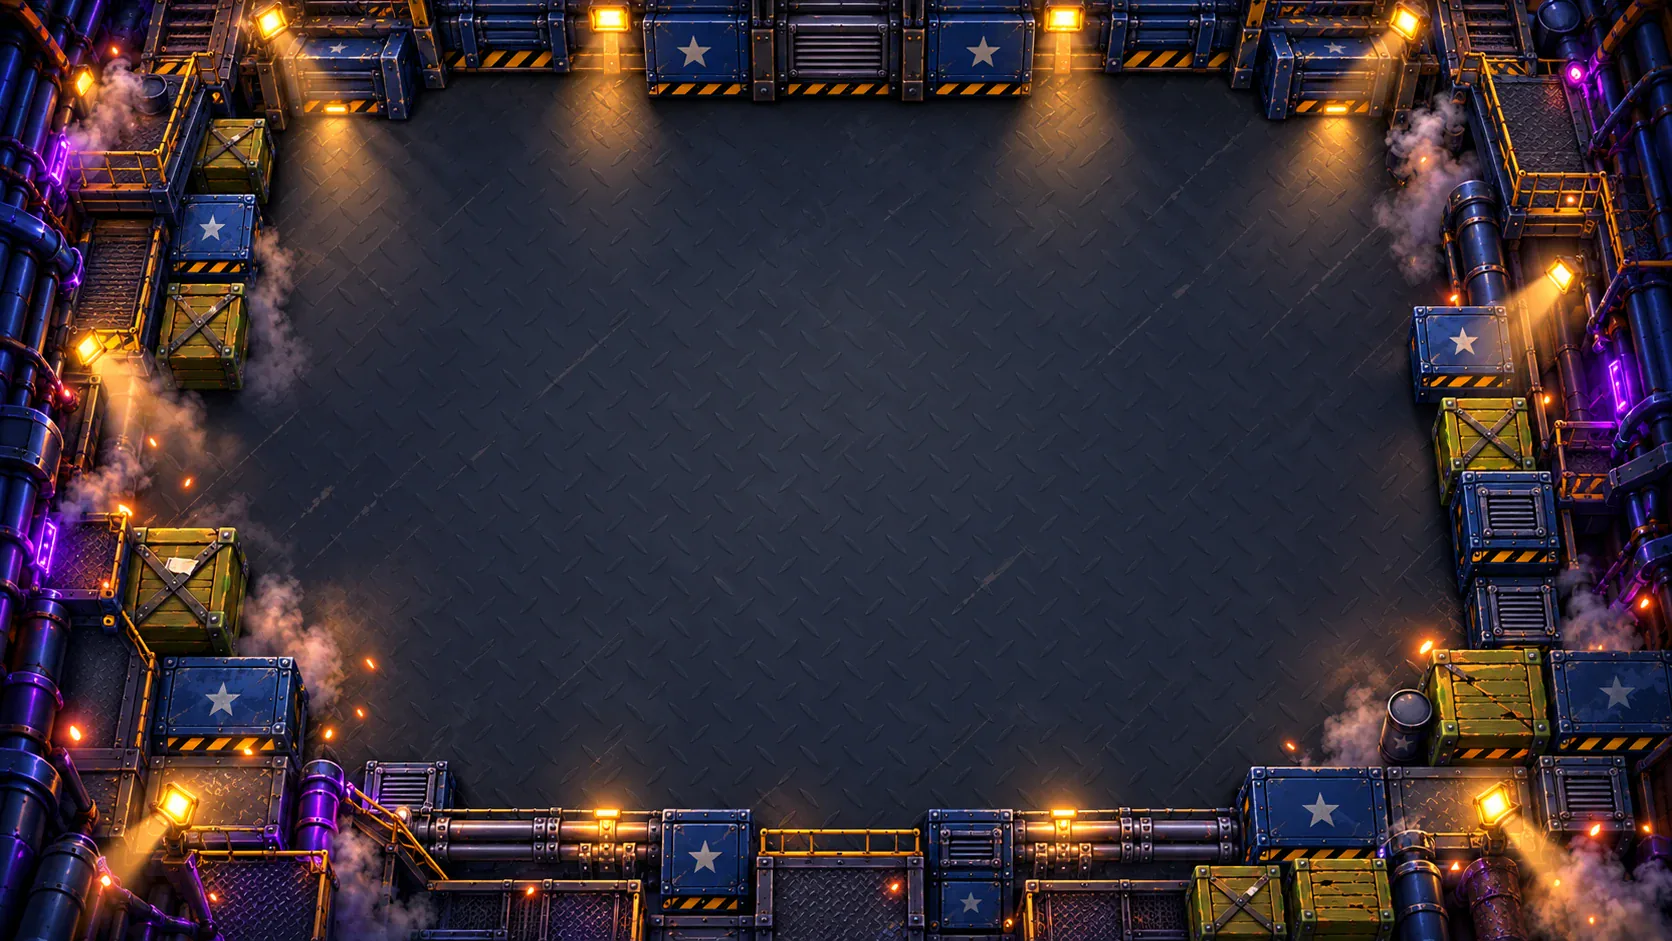
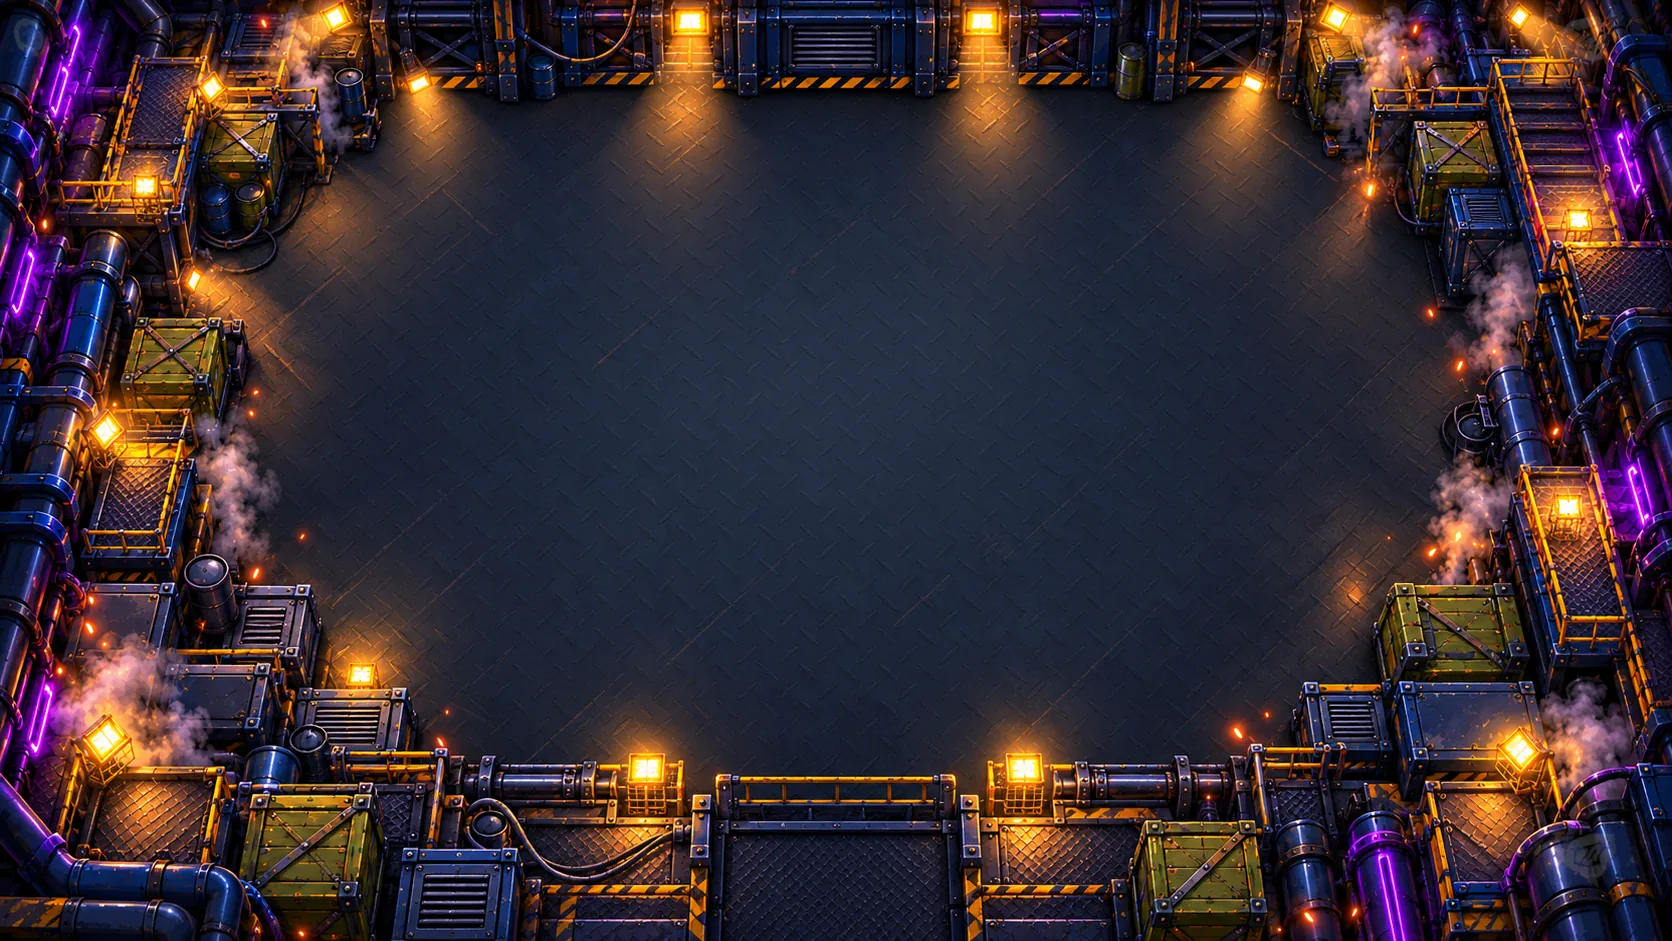
Modo Solo: arte dos power-ups (fichas), porta blindada e bau do tesouro
Fichas de bomba, fogo e sandalia alada flutuando com giro de moeda; porta de bunker
fechada/aberta (so no quartel; outras fases usam o desenho simples) com luz no chao;
bau grego fechado/aberto no mapa e na janela do premio. Fundo do quartel v2.

diff --git a/src/solo/engine/render.js b/src/solo/engine/render.js
@@ -95,7 +95,7 @@ export function draw(ctx, s, tilePx, dpr) {
   drawWarmLight(ctx, level.cols, level.rows)
   drawAmbient(ctx, s.time)
 
-  if (s.door.revealed) drawDoor(ctx, s.door, doorOpen(s), s.time)
+  if (s.door.revealed) drawDoor(ctx, s.door, doorOpen(s), s.time, s.tileset)
   for (const pu of s.powerups) if (pu.revealed && !pu.taken) drawPowerup(ctx, pu, s.time)
   if (s.chest) drawChest(ctx, s.chest, s.time, chestNear(s))
   for (const b of s.bombs) drawBomb(ctx, b, s.time)
@@ -173,7 +173,9 @@ function drawWhale(ctx, b, time) {
   ctx.restore()
 }
 
-function drawDoor(ctx, d, open, time) {
+function drawDoor(ctx, d, open, time, tileset) {
+  const art = sprite(`door_${tileset}_${open ? 'open' : 'closed'}`)
+  if (art) return drawDoorSprite(ctx, d, open, time, art)
   const { x, y } = d
   ctx.fillStyle = '#7a5c1c'
   ctx.beginPath(); ctx.roundRect(x + 0.12, y + 0.08, 0.76, 0.86, [0.38, 0.38, 0.04, 0.04]); ctx.fill()
@@ -192,6 +194,21 @@ function drawDoor(ctx, d, open, time) {
     for (const gx of [0.36, 0.5, 0.64]) { ctx.moveTo(x + gx, y + 0.22); ctx.lineTo(x + gx, y + 0.94) }
     ctx.stroke()
   }
+}
+
+// Porta com arte: fechada ou aberta (aberta, a luz de dentro pulsa e brilha no chão)
+function drawDoorSprite(ctx, d, open, time, img) {
+  const w = 1.0, h = w * img.naturalHeight / img.naturalWidth
+  const cx = d.x + 0.5, bottom = d.y + 0.98
+  if (open) {
+    const a = 0.4 + 0.15 * Math.sin(time * 5)
+    const g = ctx.createRadialGradient(cx, bottom - 0.3, 0, cx, bottom - 0.3, 1)
+    g.addColorStop(0, `rgba(255, 210, 120, ${a})`)
+    g.addColorStop(1, 'rgba(255, 210, 120, 0)')
+    ctx.fillStyle = g
+    ctx.fillRect(cx - 1, bottom - 1.3, 2, 2)
+  }
+  ctx.drawImage(img, cx - w / 2, bottom - h, w, h)
 }
 
 // Baú: fechado (brilha quando o jogador chega perto), tremendo enquanto abre, aberto depois.
@@ -217,6 +234,14 @@ function drawChest(ctx, c, time, near) {
 
   ctx.fillStyle = 'rgba(0,0,0,0.3)'
   ctx.beginPath(); ctx.ellipse(0, 0.38, 0.36, 0.08, 0, 0, Math.PI * 2); ctx.fill()
+
+  const art = sprite(opened ? 'chest_open' : 'chest_closed')
+  if (art) {
+    const w = 0.94, h = w * art.naturalHeight / art.naturalWidth
+    ctx.drawImage(art, -w / 2, 0.42 - h, w, h)
+    ctx.restore()
+    return
+  }
 
   // caixa
   ctx.fillStyle = '#7a4a1f'
@@ -266,7 +291,17 @@ function drawPowerup(ctx, pu, time) {
   ctx.translate(x + 0.5, y + 0.5)
   ctx.scale(pop, pop)
   ctx.translate(-(x + 0.5), -(y + 0.5))
-  drawPowerupBox(ctx, pu, time, lift)
+  const token = sprite(`pu_${pu.kind}`)
+  if (token) {
+    // ficha flutuando: sombrinha no chão + leve giro de moeda (estreita e volta)
+    const spin = 0.82 + 0.18 * Math.abs(Math.cos(time * 2.2 + x))
+    const w = 0.86, h = w * token.naturalHeight / token.naturalWidth
+    ctx.fillStyle = 'rgba(0,0,0,0.3)'
+    ctx.beginPath(); ctx.ellipse(x + 0.5, y + 0.9, 0.26, 0.06, 0, 0, Math.PI * 2); ctx.fill()
+    ctx.drawImage(token, x + 0.5 - (w * spin) / 2, y + 0.5 - h / 2 + lift - 0.04, w * spin, h)
+  } else {
+    drawPowerupBox(ctx, pu, time, lift)
+  }
   ctx.restore()
   // estrelinha piscando
   const tw = Math.max(0, Math.sin(time * 3 + x * 2))

diff --git a/src/solo/SoloGame.jsx b/src/solo/SoloGame.jsx
@@ -284,7 +284,7 @@ function ChestModal({ chest, onClose }) {
   if (chest.state === 'opening') {
     return (
       <div className="solo-over solo-chest">
-        <div className="solo-chest-icon is-shaking">🎁</div>
+        <img className="solo-chest-img is-shaking" src="/solo/chest-closed-big.webp" alt="" />
         <h2>Opening the chest...</h2>
       </div>
     )
@@ -292,7 +292,9 @@ function ChestModal({ chest, onClose }) {
   const r = chest.result
   return (
     <div className={`solo-over solo-chest${r.win ? ' is-win' : ''}`}>
-      <div className="solo-chest-icon">{r.win ? '💰' : '🕸'}</div>
+      {r.win
+        ? <img className="solo-chest-img is-win" src="/solo/chest-open-big.webp" alt="" />
+        : <div className="solo-chest-icon">🕸</div>}
       <h2>{r.win ? `You found ${r.amount} ${r.token}!` : 'Empty chest...'}</h2>
       <p className="solo-sub">{r.win ? 'Nice loot!' : 'Better luck in the next one'}</p>
       {r.demo && <p className="solo-demo-note">Demo prize: not real PYTH</p>}

diff --git a/src/solo/engine/sprites.js b/src/solo/engine/sprites.js
@@ -55,6 +55,14 @@ const FILES = {
   ])),
   ...Object.fromEntries(Object.entries(ENEMY_ART).map(([type, src]) => [`enemy_${type}`, src])),
   bomb: '/solo/bomb.webp', // a bomba do logo do Pyth Bomb
+  // fichas de power-up, baú (vale pra todas as fases) e porta (só a do quartel, por enquanto)
+  pu_bomb: '/solo/pu-bomb.webp',
+  pu_fire: '/solo/pu-fire.webp',
+  pu_speed: '/solo/pu-speed.webp',
+  chest_closed: '/solo/chest-closed.webp',
+  chest_open: '/solo/chest-open.webp',
+  door_military_closed: '/solo/door-closed.webp',
+  door_military_open: '/solo/door-open.webp',
   ...Object.fromEntries(Object.entries(TILESETS).flatMap(([set, t]) =>
     Object.entries(t).flatMap(([kind, src]) => (Array.isArray(src)
       ? src.map((one, i) => [`${kind}_${set}_${i}`, one])

diff --git a/src/solo/SoloGame.css b/src/solo/SoloGame.css
@@ -334,3 +334,9 @@
 }
 .solo-page.is-military .solo-hud { background: rgba(14, 10, 26, 0.88); }
 .solo-title, .solo-title h1, .solo-back { white-space: nowrap; }
+
+/* baú com arte na janela do prêmio */
+.solo-chest-img { width: 170px; height: auto; filter: drop-shadow(0 8px 18px rgba(0, 0, 0, 0.6)); }
+.solo-chest-img.is-shaking { animation: solo-chest-shake 0.25s ease-in-out infinite; }
+.solo-chest-img.is-win { animation: solo-chest-pop 0.5s cubic-bezier(0.34, 1.56, 0.64, 1); filter: drop-shadow(0 0 26px rgba(255, 200, 90, 0.7)); }
+@keyframes solo-chest-pop { from { scale: 0.6; } }
